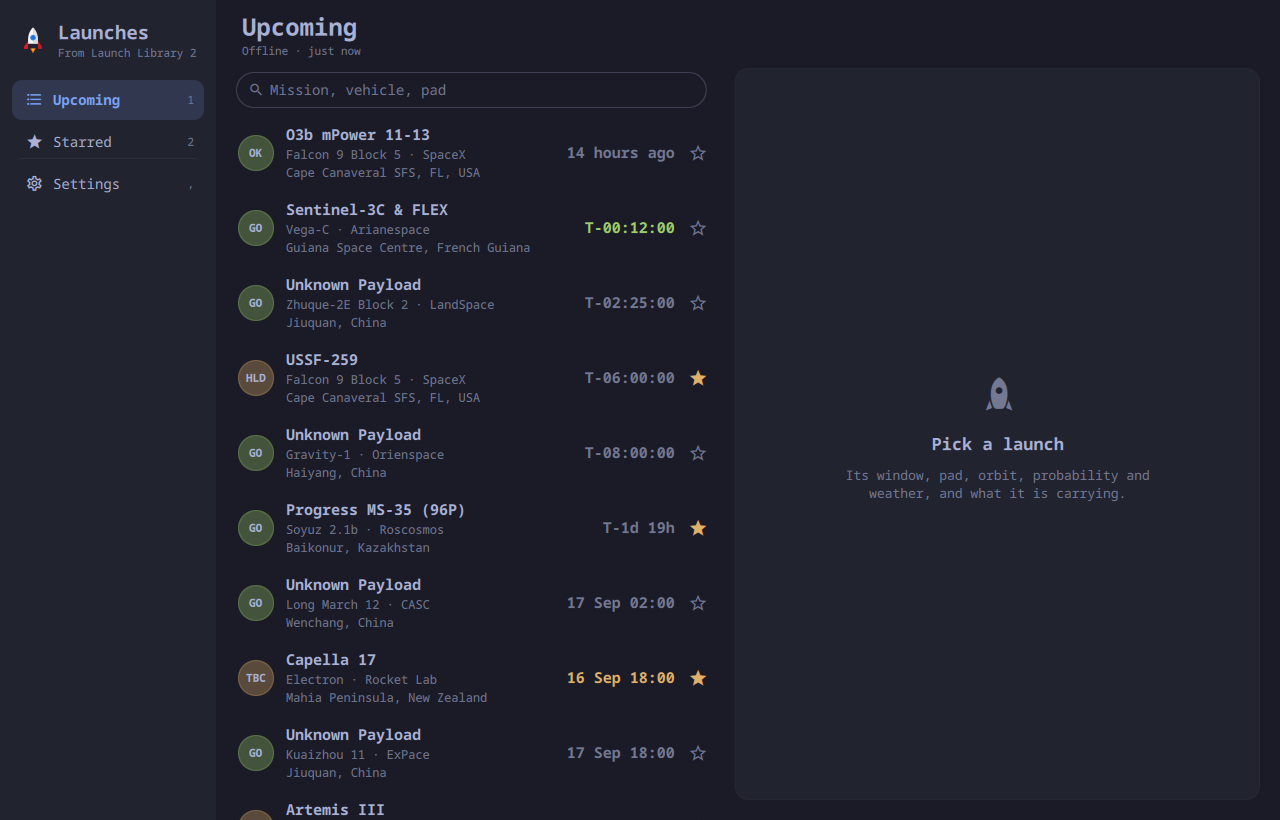
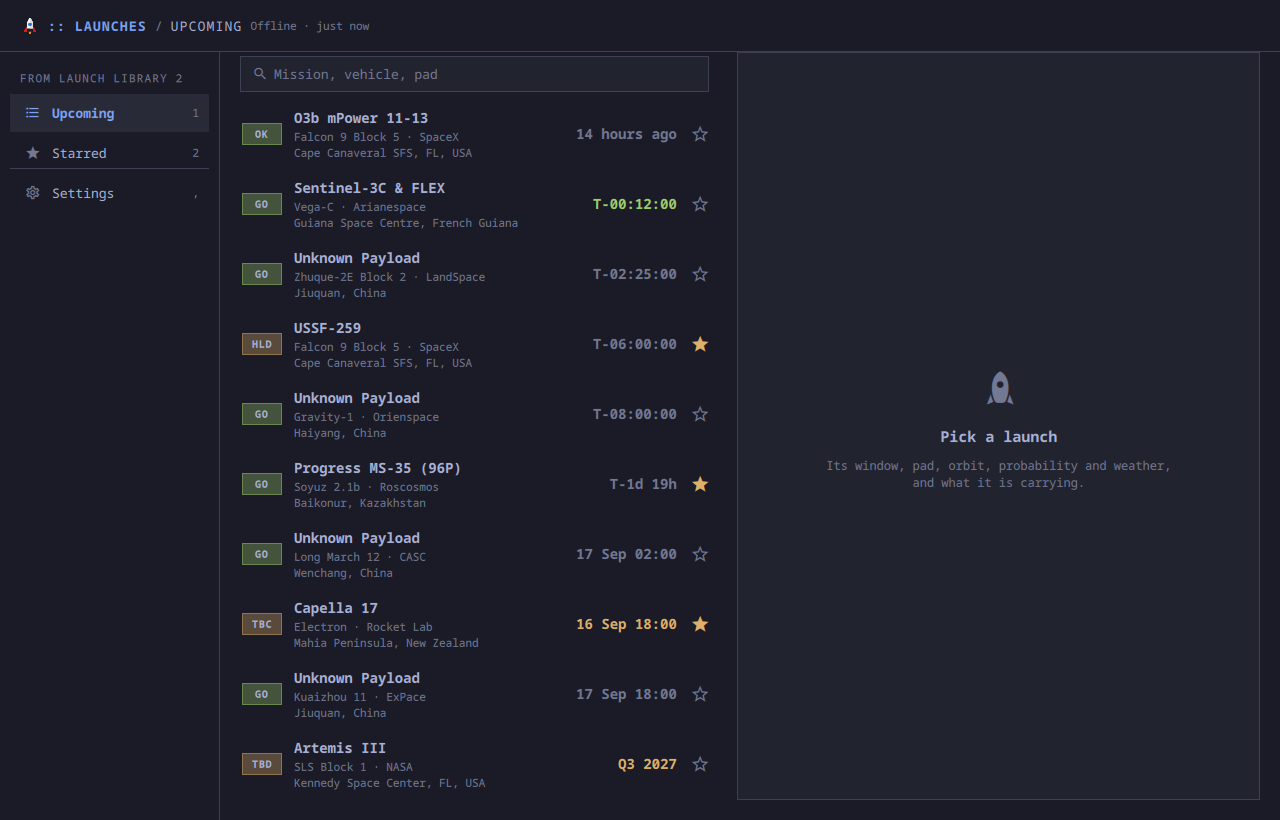
Launches in Omarchy's look: status as a square tag, fields in capitals
The status disc is a tag now, GO, HLD, TBC, in a lined box the width of its
word, as Omarchy tags a package -- still a wash of the status colour under
the theme's text, so a Hold stays readable in a light theme. The detail
page's field names are small capitals over their values, and the keyboard's
marker in the list is a square bar.

diff --git a/apps/launches/StatusBadge.qml b/apps/launches/StatusBadge.qml
@@ -1,34 +1,38 @@
 import QtQuick
 import "Launches.js" as L
 
-// The status as a disc: a wash of its colour under the theme's own text, and
-// a short mark in it. Not a solid hue with light text on it, which is
-// unreadable on a yellow Hold in a light theme -- and colour is never the
-// only signal, because roughly one man in twelve cannot tell this green from
-// this red.
+// The status as a tag, drawn as the kit's Badge is -- a square box with its
+// word in small capitals -- but with a wash of the status colour under the
+// theme's own text rather than coloured text: a yellow Hold in coloured type
+// is unreadable in a light theme. Colour is never the only signal either,
+// because roughly one man in twelve cannot tell this green from this red.
 Rectangle {
   id: root
   property var app
   property var item: null
+  // The tag's width; its height follows. 36 in a row, 48 on the detail page.
   property int size: 36
 
   readonly property color hue: app.ui.role(L.hue(item))
 
-  width: size
-  height: size
-  radius: size / 2
+  width: Math.max(size + 4, label.implicitWidth + 12)
+  height: Math.round(size * 0.62)
+  radius: app.ui.radius > 0 ? 3 : 0
   color: Qt.tint(app.ui.bg, Qt.rgba(hue.r, hue.g, hue.b, app.ui.dark ? 0.32 : 0.26))
   border.width: 1
-  border.color: Qt.rgba(hue.r, hue.g, hue.b, 0.5)
+  border.color: Qt.rgba(hue.r, hue.g, hue.b, 0.6)
   Accessible.name: item ? item.status : ""
 
   Text {
+    id: label
     anchors.centerIn: parent
     text: L.disc(root.item)
     color: root.app.ui.text
     font.family: root.app.ui.font
-    font.pixelSize: Math.round(root.size * 0.3)
+    font.pixelSize: Math.max(10, Math.round(root.size * 0.28))
     font.weight: Font.Bold
+    font.capitalization: Font.AllUppercase
+    font.letterSpacing: 0.8
     font.features: ({ "tnum": 1 })
   }
 }

diff --git a/apps/launches/LaunchRow.qml b/apps/launches/LaunchRow.qml
@@ -38,7 +38,7 @@ Rectangle {
     width: 3
     height: parent.height - 16
     anchors.verticalCenter: parent.verticalCenter
-    radius: 1.5
+    radius: 0
     color: root.app.ui.accent
   }
 
@@ -64,7 +64,7 @@ Rectangle {
       color: root.app.ui.text
       font.family: root.app.ui.font
       font.pixelSize: root.app.ui.fs.md + 1
-      font.weight: Font.DemiBold
+      font.weight: Font.Bold
       elide: Text.ElideRight
     }
     Text {
@@ -96,7 +96,7 @@ Rectangle {
     color: root.app.ui.tone(L.tone(root.item, root.now))
     font.family: root.app.ui.font
     font.pixelSize: root.app.ui.fs.md + 1
-    font.weight: Font.DemiBold
+    font.weight: Font.Bold
     font.features: ({ "tnum": 1 })
   }
 

diff --git a/apps/launches/DetailView.qml b/apps/launches/DetailView.qml
@@ -137,6 +137,8 @@ Item {
               color: root.app.ui.muted
               font.family: root.app.ui.font
               font.pixelSize: root.app.ui.fs.xs
+              font.capitalization: Font.AllUppercase
+              font.letterSpacing: root.app.ui.tracking
             }
             Text {
               width: parent.width
@@ -145,7 +147,7 @@ Item {
               color: root.app.ui.text
               font.family: root.app.ui.font
               font.pixelSize: root.app.ui.fs.md
-              font.weight: Font.DemiBold
+              font.weight: Font.Bold
             }
           }
         }

diff --git a/apps/launches/Panel.qml b/apps/launches/Panel.qml
@@ -459,10 +459,10 @@ App {
       anchors.bottom: parent.bottom
       anchors.rightMargin: root.ui.gutter
       anchors.bottomMargin: root.ui.gutter
-      radius: root.ui.radius + 4
+      radius: root.ui.radius
       color: root.ui.surface
       border.width: 1
-      border.color: root.ui.divider
+      border.color: root.ui.line
 
       readonly property var shown: root.selectedId ? L.find(root.launches, root.selectedId) : null
 
